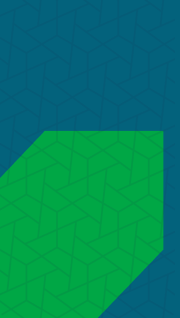
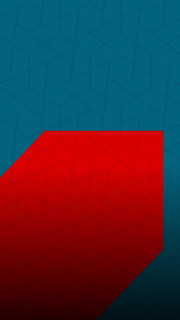
Task #0000 fix: default image change

diff --git a/src/components/common/cards/ContentCard.tsx b/src/components/common/cards/ContentCard.tsx
@@ -3,7 +3,7 @@ import { Box, Image, Badge, Text, HStack } from "@chakra-ui/react";
 import defaultImage from "../../../assets/images/default-img.png";
 import scienceImage from "../../../assets/images/science-sub.png";
 import englishImage from "../../../assets/images/english-sub.png";
-import kannadaImage from "../../../assets/images/kannada-sub.png";
+import mathImage from "../../../assets/images/math-sub.png";
 import IconByName from "../icons/Icon";
 
 interface ContentCardProps {
@@ -22,8 +22,8 @@ interface ContentCardProps {
 const subjectImages: { [key: string]: string } = {
   English: englishImage,
   Science: scienceImage,
-  Kannada: kannadaImage,
-  Math: defaultImage,
+  Kannada: defaultImage,
+  Mathematics: mathImage,
 };
 
 const ContentCard: React.FC<ContentCardProps> = memo(({ item }) => {
